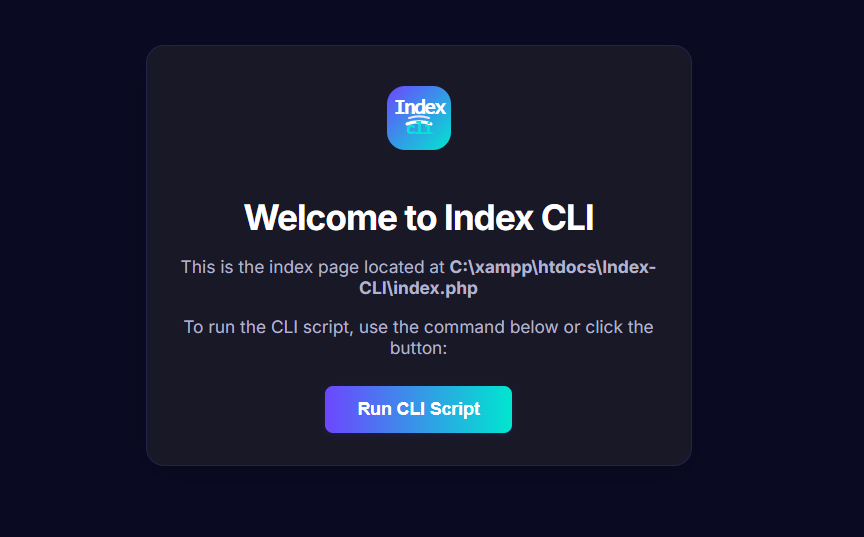
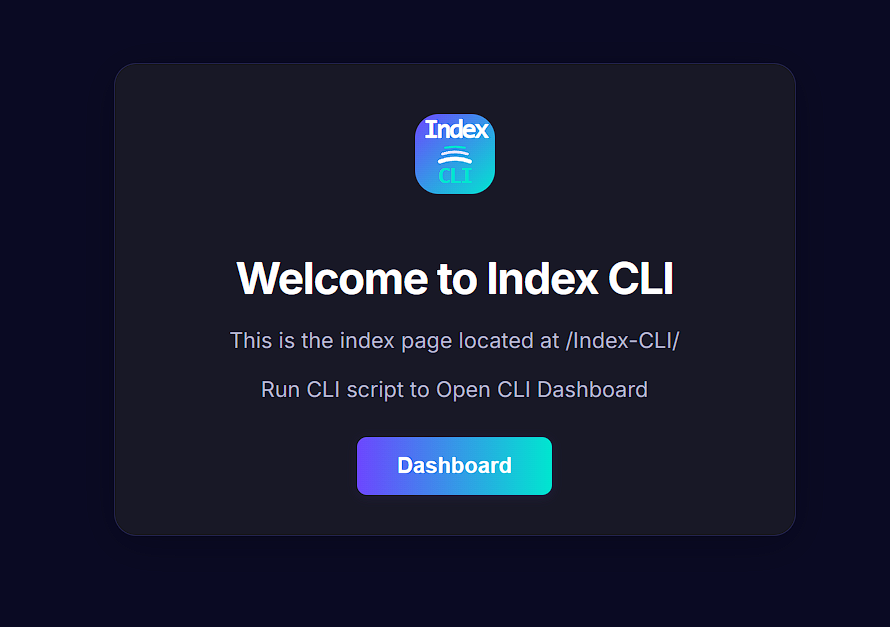
Index CLI

Changed region(s): [[0.1875, 0.3575, 0.7812, 0.5661], [0.2188, 0.5959, 0.75, 0.8045], [0.4375, 0.149, 0.5625, 0.3277]]

diff --git a/README.md b/README.md
@@ -19,7 +19,7 @@ This project provides a simple, modern index page for your PHP CLI scripts, insp
 
 - Clean, responsive UI
 - "Run CLI Script" button to execute your CLI PHP script (`cli.php`) directly from the browser
-- Open CLI DashBoard
+- Open CLI DashBoard web web terminal
 
 ## Usage
 
@@ -30,6 +30,8 @@ This project provides a simple, modern index page for your PHP CLI scripts, insp
 ## Example
 
 ![Screenshot of Index CLI UI](screenshot.png)
+
+![Screenshot of Index CLI UI Dashboard](dashboard.png)
 
 ## How it works
 
